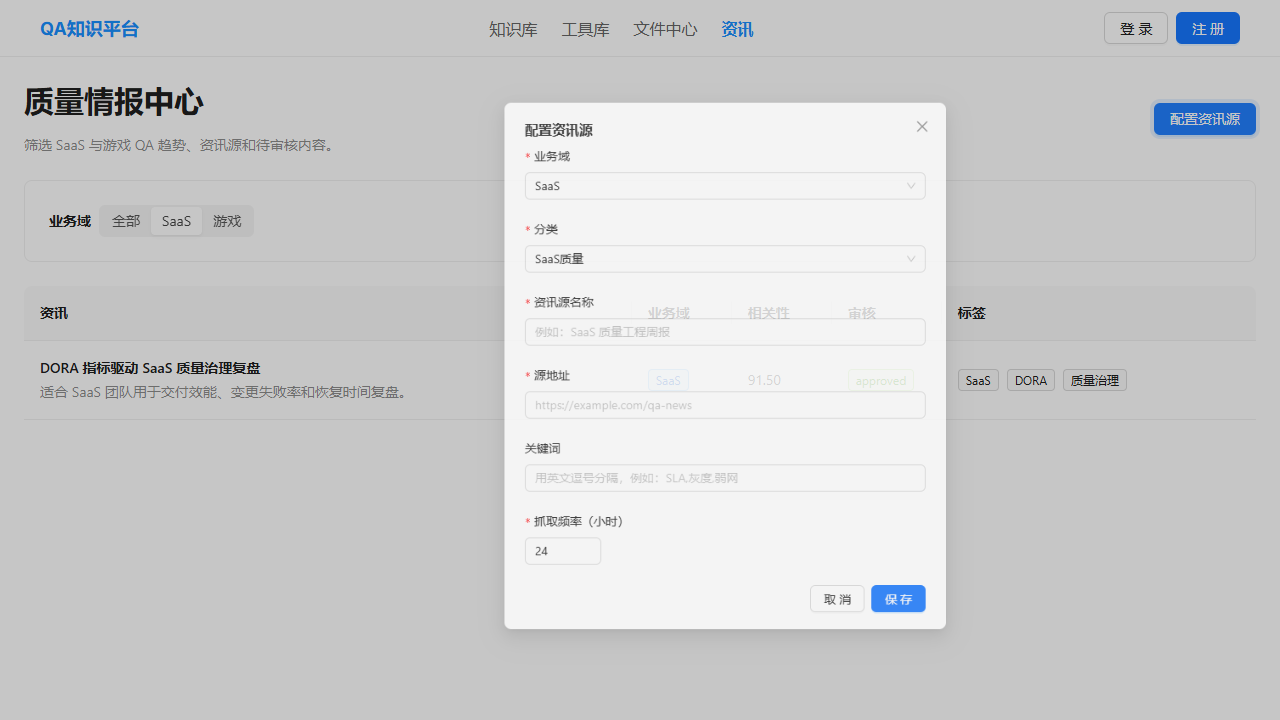
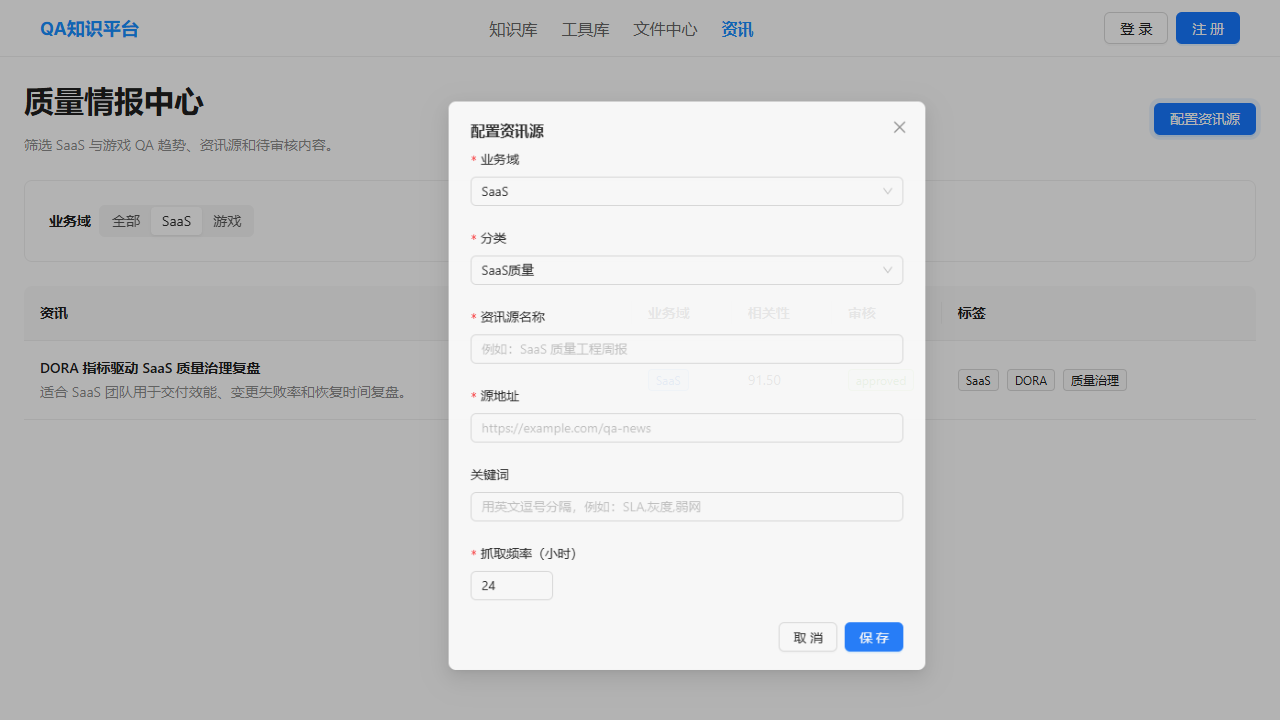
fix(migrations): verify fresh database upgrades

Changed region(s): [[0.3438, 0.1222, 0.75, 0.9778], [0.4375, 0.55, 0.5312, 0.5806]]

diff --git a/qa-knowledge-platform/scripts/verify-acceptance-docs.js b/qa-knowledge-platform/scripts/verify-acceptance-docs.js
@@ -25,6 +25,8 @@ const requiredMarkers = [
   'create with evidence file',
   'comment, like, favorite, metrics',
   'audit flow',
+  'single Alembic release head',
+  'fresh empty database upgrade',
   'intelligence flow',
   'source-backed news summary',
   'output/acceptance/ui-knowledge.png',

diff --git a/qa-knowledge-platform/backend/tests/test_taxonomy.py b/qa-knowledge-platform/backend/tests/test_taxonomy.py
@@ -1,5 +1,7 @@
-from app.modules.knowledge.models import ArticleStatus
+import ast
 from pathlib import Path
+
+from app.modules.knowledge.models import ArticleStatus
 
 
 def test_business_domain_values_exist():
@@ -66,3 +68,39 @@ def test_taxonomy_migration_adds_domain_and_review_columns():
     assert "review_status" in content
     assert "visibility" in content
     assert "project_key" in content
+
+
+def test_alembic_versions_have_single_release_head():
+    versions_dir = Path(__file__).resolve().parents[1] / "alembic" / "versions"
+    revisions = set()
+    referenced_revisions = set()
+    root_revisions = set()
+
+    for migration in versions_dir.glob("*.py"):
+        tree = ast.parse(migration.read_text(encoding="utf-8"))
+        assignments = {
+            node.targets[0].id: ast.literal_eval(node.value)
+            for node in tree.body
+            if isinstance(node, ast.Assign)
+            and len(node.targets) == 1
+            and isinstance(node.targets[0], ast.Name)
+            and node.targets[0].id in {"revision", "down_revision"}
+            and not isinstance(node.value, ast.Name)
+        }
+
+        revision = assignments.get("revision")
+        down_revision = assignments.get("down_revision")
+        if revision:
+            revisions.add(revision)
+            if down_revision is None:
+                root_revisions.add(revision)
+        if isinstance(down_revision, str):
+            referenced_revisions.add(down_revision)
+        elif isinstance(down_revision, tuple):
+            referenced_revisions.update(item for item in down_revision if item)
+
+    heads = revisions - referenced_revisions
+    assert len(heads) == 1, f"Expected one Alembic head, found {sorted(heads)}"
+    assert len(root_revisions) == 1, (
+        f"Expected one Alembic root, found {sorted(root_revisions)}"
+    )

diff --git a/qa-knowledge-platform/backend/alembic/versions/001_create_core_tables.py b/qa-knowledge-platform/backend/alembic/versions/001_create_core_tables.py
@@ -19,25 +19,33 @@ depends_on = None
 def upgrade() -> None:
     # Create enum types
     user_role_enum = postgresql.ENUM('member', 'admin', 'super_admin', name='userrole')
-    user_role_enum.create(op.get_bind())
+    user_role_enum.create(op.get_bind(), checkfirst=True)
     
     article_status_enum = postgresql.ENUM('draft', 'private', 'team', 'public', name='articlestatus')
-    article_status_enum.create(op.get_bind())
+    article_status_enum.create(op.get_bind(), checkfirst=True)
     
     article_type_enum = postgresql.ENUM('经验分享', 'Bug案例', '工具教程', '最佳实践', name='articletype')
-    article_type_enum.create(op.get_bind())
+    article_type_enum.create(op.get_bind(), checkfirst=True)
     
     category_type_enum = postgresql.ENUM('功能测试', '性能测试', '自动化测试', '游戏测试', '安全测试', '移动测试', name='categorytype')
-    category_type_enum.create(op.get_bind())
+    category_type_enum.create(op.get_bind(), checkfirst=True)
     
     tag_category_enum = postgresql.ENUM('技术', '工具', '平台', '难度', '类型', name='tagcategory')
-    tag_category_enum.create(op.get_bind())
+    tag_category_enum.create(op.get_bind(), checkfirst=True)
     
     tool_category_type_enum = postgresql.ENUM('功能测试', '性能测试', '自动化测试', '移动测试', '游戏测试', '管理工具', name='toolcategorytype')
-    tool_category_type_enum.create(op.get_bind())
+    tool_category_type_enum.create(op.get_bind(), checkfirst=True)
     
     news_category_enum = postgresql.ENUM('软件测试', '游戏测试', 'AI测试', '行业动态', name='newscategory')
-    news_category_enum.create(op.get_bind())
+    news_category_enum.create(op.get_bind(), checkfirst=True)
+
+    user_role_type = postgresql.ENUM(name='userrole', create_type=False)
+    article_status_type = postgresql.ENUM(name='articlestatus', create_type=False)
+    article_type = postgresql.ENUM(name='articletype', create_type=False)
+    category_type = postgresql.ENUM(name='categorytype', create_type=False)
+    tag_category_type = postgresql.ENUM(name='tagcategory', create_type=False)
+    tool_category_type = postgresql.ENUM(name='toolcategorytype', create_type=False)
+    news_category_type = postgresql.ENUM(name='newscategory', create_type=False)
 
     # Create teams table first (referenced by users)
     op.create_table('teams',
@@ -60,7 +68,7 @@ def upgrade() -> None:
         sa.Column('nickname', sa.String(length=100), nullable=True),
         sa.Column('avatar_url', sa.Text(), nullable=True),
         sa.Column('bio', sa.Text(), nullable=True),
-        sa.Column('role', user_role_enum, nullable=False),
+        sa.Column('role', user_role_type, nullable=False),
         sa.Column('team_id', postgresql.UUID(as_uuid=True), nullable=True),
         sa.Column('skills', postgresql.JSON(astext_type=sa.Text()), nullable=True),
         sa.Column('is_active', sa.Boolean(), nullable=True),
@@ -82,7 +90,7 @@ def upgrade() -> None:
         sa.Column('id', postgresql.UUID(as_uuid=True), nullable=False),
         sa.Column('name', sa.String(length=100), nullable=False),
         sa.Column('description', sa.Text(), nullable=True),
-        sa.Column('type', category_type_enum, nullable=False),
+        sa.Column('type', category_type, nullable=False),
         sa.Column('parent_id', postgresql.UUID(as_uuid=True), nullable=True),
         sa.Column('sort_order', sa.Integer(), nullable=True),
         sa.Column('created_at', sa.DateTime(timezone=True), server_default=sa.text('now()'), nullable=True),
@@ -95,7 +103,7 @@ def upgrade() -> None:
         sa.Column('id', postgresql.UUID(as_uuid=True), nullable=False),
         sa.Column('name', sa.String(length=50), nullable=False),
         sa.Column('color', sa.String(length=7), nullable=True),
-        sa.Column('category', tag_category_enum, nullable=False),
+        sa.Column('category', tag_category_type, nullable=False),
         sa.Column('usage_count', sa.Integer(), nullable=True),
         sa.Column('created_at', sa.DateTime(timezone=True), server_default=sa.text('now()'), nullable=True),
         sa.PrimaryKeyConstraint('id'),
@@ -112,8 +120,8 @@ def upgrade() -> None:
         sa.Column('summary', sa.Text(), nullable=True),
         sa.Column('content', sa.Text(), nullable=False),
         sa.Column('cover_image', sa.Text(), nullable=True),
-        sa.Column('status', article_status_enum, nullable=False),
-        sa.Column('type', article_type_enum, nullable=False),
+        sa.Column('status', article_status_type, nullable=False),
+        sa.Column('type', article_type, nullable=False),
         sa.Column('view_count', sa.Integer(), nullable=True),
         sa.Column('like_count', sa.Integer(), nullable=True),
         sa.Column('comment_count', sa.Integer(), nullable=True),
@@ -140,7 +148,7 @@ def upgrade() -> None:
         sa.Column('id', postgresql.UUID(as_uuid=True), nullable=False),
         sa.Column('name', sa.String(length=100), nullable=False),
         sa.Column('description', sa.Text(), nullable=True),
-        sa.Column('type', tool_category_type_enum, nullable=False),
+        sa.Column('type', tool_category_type, nullable=False),
         sa.Column('sort_order', sa.Integer(), nullable=True),
         sa.Column('created_at', sa.DateTime(timezone=True), server_default=sa.text('now()'), nullable=True),
         sa.PrimaryKeyConstraint('id')
@@ -189,7 +197,7 @@ def upgrade() -> None:
         sa.Column('keywords', postgresql.JSON(astext_type=sa.Text()), nullable=True),
         sa.Column('frequency_hours', sa.Integer(), nullable=True),
         sa.Column('is_active', sa.Boolean(), nullable=True),
-        sa.Column('category', news_category_enum, nullable=False),
+        sa.Column('category', news_category_type, nullable=False),
         sa.Column('created_at', sa.DateTime(timezone=True), server_default=sa.text('now()'), nullable=True),
         sa.Column('updated_at', sa.DateTime(timezone=True), nullable=True),
         sa.PrimaryKeyConstraint('id')

diff --git a/qa-knowledge-platform/backend/alembic/versions/add_file_upload_tables.py b/qa-knowledge-platform/backend/alembic/versions/add_file_upload_tables.py
@@ -1,7 +1,7 @@
 """Add file upload tables
 
 Revision ID: add_file_upload_tables
-Revises: 72a93e43c917
+Revises: 001_create_core_tables
 Create Date: 2025-08-30 16:00:00.000000
 
 """
@@ -11,15 +11,23 @@ from sqlalchemy.dialects import postgresql
 
 # revision identifiers, used by Alembic.
 revision = 'add_file_upload_tables'
-down_revision = '72a93e43c917'
+down_revision = '001_create_core_tables'
 branch_labels = None
 depends_on = None
 
 
 def upgrade() -> None:
     # Create enum types
-    op.execute("CREATE TYPE filetype AS ENUM ('image', 'document', 'archive', 'other')")
-    op.execute("CREATE TYPE filestatus AS ENUM ('uploading', 'processing', 'ready', 'error')")
+    file_type_enum = postgresql.ENUM(
+        'image', 'document', 'archive', 'other', name='filetype'
+    )
+    file_status_enum = postgresql.ENUM(
+        'uploading', 'processing', 'ready', 'error', name='filestatus'
+    )
+    file_type_enum.create(op.get_bind(), checkfirst=True)
+    file_status_enum.create(op.get_bind(), checkfirst=True)
+    file_type = postgresql.ENUM(name='filetype', create_type=False)
+    file_status = postgresql.ENUM(name='filestatus', create_type=False)
     
     # Create uploaded_files table
     op.create_table('uploaded_files',
@@ -30,8 +38,8 @@ def upgrade() -> None:
         sa.Column('file_path', sa.Text(), nullable=False),
         sa.Column('file_size', sa.Integer(), nullable=False),
         sa.Column('mime_type', sa.String(length=100), nullable=False),
-        sa.Column('file_type', sa.Enum('image', 'document', 'archive', 'other', name='filetype'), nullable=False),
-        sa.Column('status', sa.Enum('uploading', 'processing', 'ready', 'error', name='filestatus'), nullable=False),
+        sa.Column('file_type', file_type, nullable=False),
+        sa.Column('status', file_status, nullable=False),
         sa.Column('thumbnail_path', sa.Text(), nullable=True),
         sa.Column('file_metadata', postgresql.JSON(astext_type=sa.Text()), nullable=True),
         sa.Column('download_count', sa.Integer(), nullable=True),
@@ -59,5 +67,5 @@ def downgrade() -> None:
     op.drop_table('uploaded_files')
     
     # Drop enum types
-    op.execute("DROP TYPE filestatus")
-    op.execute("DROP TYPE filetype")
+    op.execute("DROP TYPE IF EXISTS filestatus")
+    op.execute("DROP TYPE IF EXISTS filetype")

diff --git a/qa-knowledge-platform/backend/alembic/env.py b/qa-knowledge-platform/backend/alembic/env.py
@@ -1,4 +1,5 @@
 import asyncio
+import os
 from logging.config import fileConfig
 
 from sqlalchemy import pool
@@ -27,6 +28,10 @@ from app.modules.tools.models import Tool, ToolCategory, ToolRating
 from app.modules.users.models import Team, User
 
 target_metadata = Base.metadata
+
+database_url = os.getenv("DATABASE_URL")
+if database_url:
+    config.set_main_option("sqlalchemy.url", database_url)
 
 # other values from the config, defined by the needs of env.py,
 # can be acquired:

diff --git a/qa-knowledge-platform/backend/alembic/versions/20260627_add_saas_game_taxonomy.py b/qa-knowledge-platform/backend/alembic/versions/20260627_add_saas_game_taxonomy.py
@@ -1,7 +1,7 @@
 """Add SaaS and game QA taxonomy fields.
 
 Revision ID: 20260627_add_saas_game_taxonomy
-Revises: 001_create_core_tables
+Revises: add_professional_fields
 Create Date: 2026-06-27 00:00:00.000000
 """
 
@@ -11,7 +11,7 @@ from sqlalchemy.dialects import postgresql
 
 
 revision = "20260627_add_saas_game_taxonomy"
-down_revision = "001_create_core_tables"
+down_revision = "add_professional_fields"
 branch_labels = None
 depends_on = None
 

diff --git a/qa-knowledge-platform/backend/alembic/versions/add_professional_fields.py b/qa-knowledge-platform/backend/alembic/versions/add_professional_fields.py
@@ -12,7 +12,7 @@ from sqlalchemy.dialects import postgresql
 
 # revision identifiers, used by Alembic.
 revision = "add_professional_fields"
-down_revision = None
+down_revision = "add_file_upload_tables"
 branch_labels = None
 depends_on = None
 

diff --git a/qa-knowledge-platform/docs/plans/acceptance-matrix-saas-game-qa.md b/qa-knowledge-platform/docs/plans/acceptance-matrix-saas-game-qa.md
@@ -15,7 +15,8 @@ This matrix defines the release evidence for the SaaS and game QA baseline. It m
 ## Release Evidence
 
 - Backend focused suite: `python -m pytest tests/test_taxonomy.py tests/test_knowledge_api.py tests/test_tools_api.py tests/test_news_api.py tests/test_intelligence_api.py -q` -> 17 passed.
-- Backend full regression: `python -m pytest tests/ --cov=app -q` -> 60 passed, 71% coverage.
+- Backend full regression: `python -m pytest tests/ --cov=app -q` -> 61 passed, 71% coverage.
+- Database migration graph: `poetry run alembic heads` -> single Alembic release head `20260628_add_audit_logs`; fresh empty database upgrade with `DATABASE_URL=postgresql+asyncpg://... poetry run alembic upgrade head` -> passed.
 - Frontend static gate: `node scripts/verify-core-pages.js` -> passed.
 - Frontend quality gate: `pnpm type-check`, `pnpm lint`, `pnpm build` -> passed. Lint still reports non-blocking existing `any` and hook dependency warnings.
 - Runtime Docker acceptance: `node scripts/verify-runtime-acceptance.js` -> validates backend health, SaaS/Game seed data, file upload, knowledge write flow with linked evidence file, comment, like, favorite, metrics, audit flow, tool rating/favorite/usage flow, news source governance, source-backed intelligence flow, source-backed news summary, and frontend routes on the integrated stack.
@@ -49,6 +50,7 @@ Use a local dev stack with backend on `8000` and frontend on `3000`.
 | Runtime Docker acceptance | `node scripts/verify-runtime-acceptance.js` | Passed: health, SaaS/Game APIs, file upload, knowledge create with evidence file/approve/comment/like/favorite/metrics/update/search/delete, audit flow for knowledge/news/source changes, tool create/delete/rate/favorite/usage, news source CRUD, news publish/reject, intelligence flow, and core frontend routes. |
 | UI acceptance | `npx --yes --package playwright node scripts/verify-ui-acceptance.js` | Passed: live API data rendered, SaaS/Game filters worked, and create/configuration forms opened on knowledge, tools, and news pages. |
 | Backend focused regression | `python -m pytest tests/test_taxonomy.py tests/test_knowledge_api.py tests/test_tools_api.py tests/test_news_api.py tests/test_intelligence_api.py -q` | Passed: 17 tests. |
-| Backend full regression | `python -m pytest tests/ --cov=app -q` | Passed: 60 tests, 71% coverage. |
+| Backend full regression | `python -m pytest tests/ --cov=app -q` | Passed: 61 tests, 71% coverage. |
+| Database migration graph | `poetry run alembic heads`; run `poetry run alembic upgrade head` against a fresh empty database. | Passed: single Alembic release head `20260628_add_audit_logs`; fresh empty database upgrade passed. |
 | Frontend release build | Stop `frontend`, run `$docker compose -f docker-compose.dev.yml run --rm --no-deps -e NODE_ENV=production -e NEXT_TELEMETRY_DISABLED=1 frontend sh -lc "rm -rf .next && pnpm build"`, then start `frontend`. | Passed: 17 static routes generated without `.next` contention. |
 | Documentation gate | `node scripts/verify-acceptance-docs.js` | Passed. |